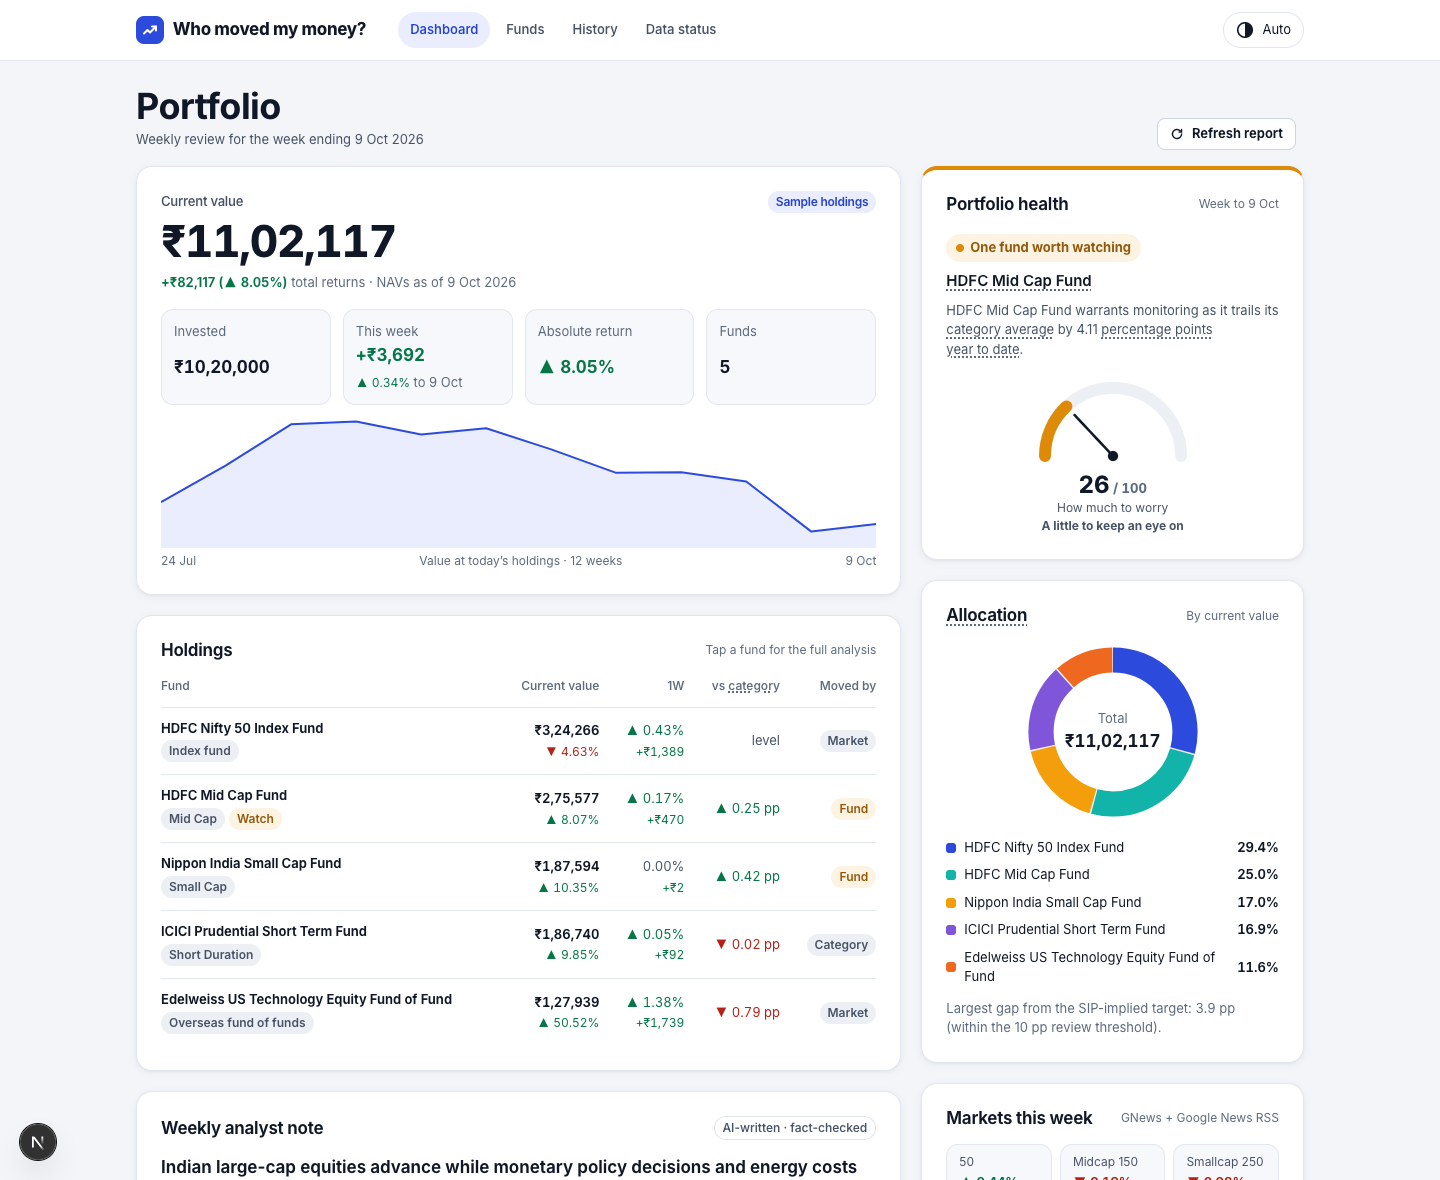
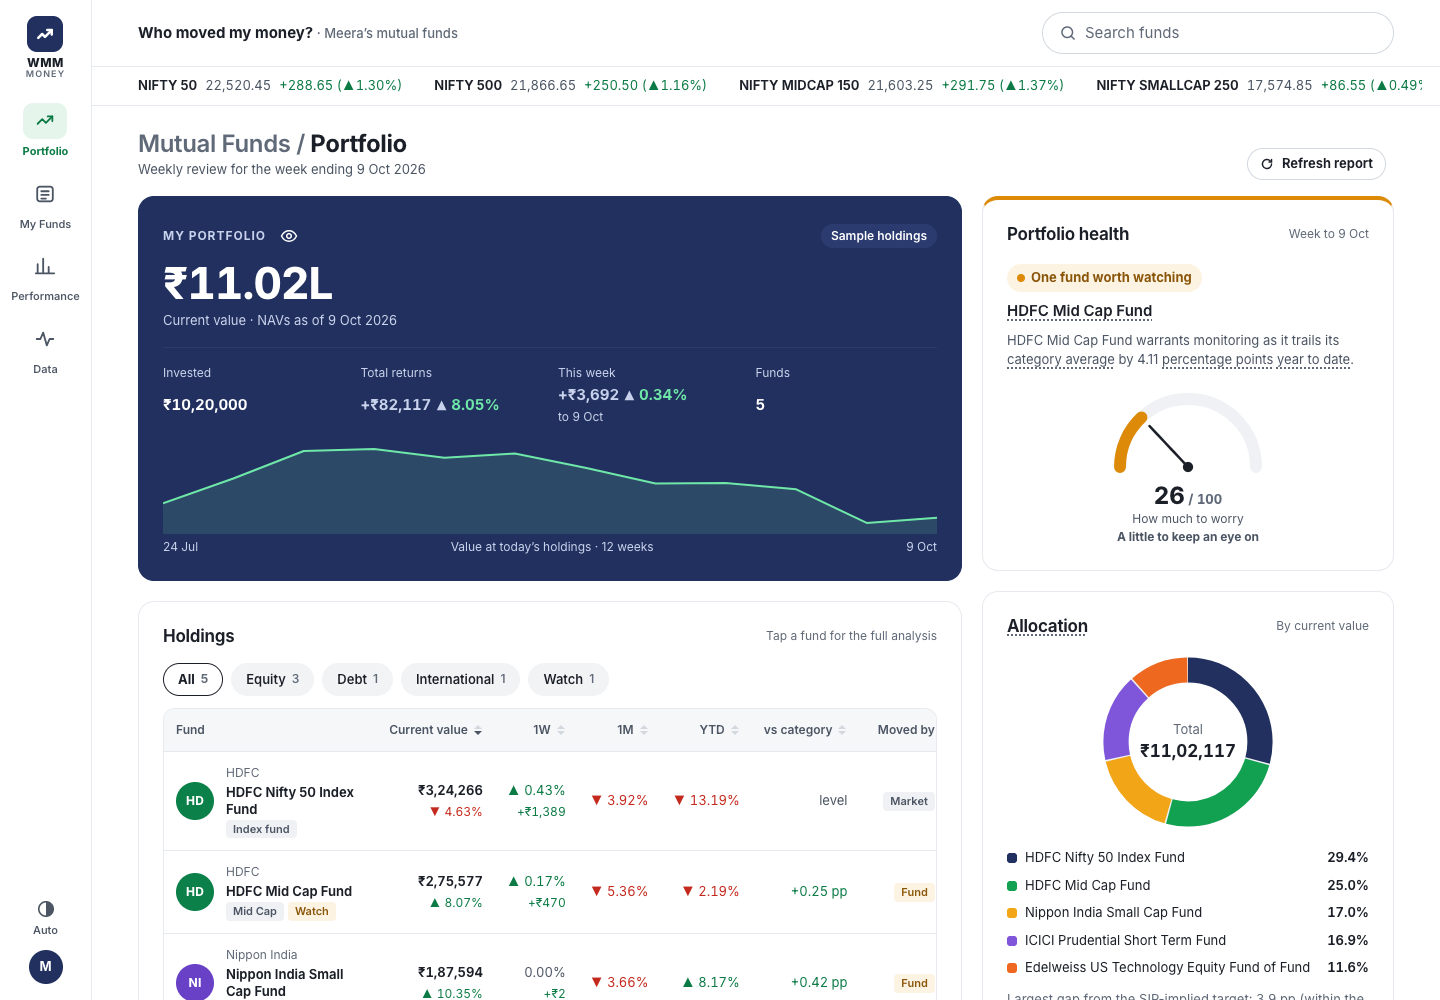
Docs: INDmoney-style design notes, app-shell components, fresh screenshots

diff --git a/README.md b/README.md
@@ -191,9 +191,9 @@ Both reject requests without `CRON_SECRET` (401), are **idempotent** (running th
 
 ## Design
 
-- **Concept:** a professional investing dashboard in the style of Indian investment apps: white cards on a soft grey canvas (dark theme follows the system, with a toggle), Inter typography with tabular figures, a bottom tab bar on phones, and detail in side sheets instead of one long scrolling page. The verdict colour (green / amber / purple) tints the health card and flagged funds. **No weather or nature imagery anywhere** — UI, icons, copy, animations, and Gemini's prose (enforced by the guard).
+- **Concept:** a professional investing dashboard styled after INDmoney (style only: our own name and logo, fund houses shown as coloured initials, not real logos). A left icon rail (a bottom tab bar on phones), a top bar with a pill search box and a ticker of index closes, a navy "My portfolio" card with an eye button that hides amounts, and holdings in a table with pill filters (All / Equity / Debt / International / Watch) and ⇅ sortable columns. White canvas, green primary buttons, red/green market colours, Inter with tabular figures; dark theme follows the system, with a toggle. Detail opens in side sheets instead of one long scrolling page. The verdict colour (green / amber / purple) tints the health card and flagged funds. **No weather or nature imagery anywhere** — UI, icons, copy, animations, and Gemini's prose (enforced by the guard).
 - **Tokens:** every colour, size and timing is in [`src/styles/tokens.css`](src/styles/tokens.css). All text colours pass WCAG AA in light and dark (lowest 4.71:1).
-- **Motion (GSAP):** one orchestrated load timeline — the accent eases to the verdict colour, the portfolio value counts up (first view only), the value line and allocation donut draw (DrawSVG), the worry dial sweeps, the holdings rows settle in. Opening a fund's sheet slides it in and fills its "who moved my money" bars in order. Adding a fund slides the new row in; removing collapses it. **`prefers-reduced-motion` shows final states instantly.**
+- **Motion (GSAP):** one orchestrated load timeline — the accent eases to the verdict colour, the value line and allocation donut draw (DrawSVG), the worry dial sweeps, the holdings rows settle in. Opening a fund's sheet slides it in and fills its "who moved my money" bars in order. Adding a fund slides the new row in; removing collapses it. **`prefers-reduced-motion` shows final states instantly.**
 - **Accessibility:** gains and losses never rely on colour alone (▲/▼ plus "up"/"down" for screen readers); whole holdings rows are keyboard-reachable buttons; labelled inputs; visible focus; skip link.
 - **Every number has provenance:** hover a number for its "as of" date and source; each fund sheet lists its data sources.
 

diff --git a/COMPONENTS_MAP.md b/COMPONENTS_MAP.md
@@ -134,7 +134,8 @@ flowchart LR
 | Admin & funds API | `src/app/api/admin/*`, `src/app/api/funds/*`, `src/lib/auth/passcode.ts`, `src/lib/api.ts` | Passcode session (HMAC cookie), run-now, backfill, add/remove/patch funds, rate-limited lookup | HTTP | JSON | — |
 | Status API | `src/app/api/status/check/route.ts` | Live health check of Neon, mfapi, AMFI, Yahoo, news, Gemini | HTTP | Check list | all sources |
 | Page data | `src/lib/data/views.ts` | Server-side view models for the four pages | Neon | Views | Neon |
-| Dashboard page | `src/app/page.tsx`, `src/components/dashboard/Cards.tsx` | Portfolio value + 12-week value chart, KPI tiles, holdings table, portfolio health (verdict chip, worry dial), allocation donut, weekly analyst note, markets card | Dashboard view | HTML | — |
+| App shell | `src/app/layout.tsx`, `src/components/shell/SideRail.tsx`, `TopBar.tsx`, `Ticker.tsx`, `src/lib/data/ticker.ts` | Left icon rail / phone tab bar, pill search (→ Funds scheme search), index ticker (last two stored Yahoo closes) | `benchmark_history` | HTML | — |
+| Dashboard page | `src/app/page.tsx`, `src/components/dashboard/Cards.tsx`, `HoldingsTable.tsx`, `AmountToggle.tsx` | Navy portfolio card + 12-week value chart (eye hides amounts), sortable/filterable holdings table, portfolio health (verdict chip, worry dial), allocation donut, weekly analyst note, markets card | Dashboard view | HTML | — |
 | Fund analysis sheet | `src/components/dashboard/Sheet.tsx`, `FundDetail.tsx` | Side sheet per fund: holding stats, analyst note, who-moved-my-money bars, 12-week chart, returns vs benchmark and category, data sources | Fund card | Dialog | — |
 | Shared visuals | `src/components/checkin/Pct.tsx`, `Waterfall.tsx`, `Sparkline.tsx`, `WorryDial.tsx` | ▲/▼ percentages (never colour alone), the three-part waterfall, sparkline, worry dial | Numbers | SVG/HTML | — |
 | Motion | `src/lib/gsap.ts`, `src/components/dashboard/DashboardMotion.tsx` | One load timeline (accent, value count-up, value line + donut draw, dial sweep, rows); sheet bars fill on open; reduced motion shows final states | DOM | Animation | GSAP (SplitText, DrawSVG, ScrollTrigger) |
